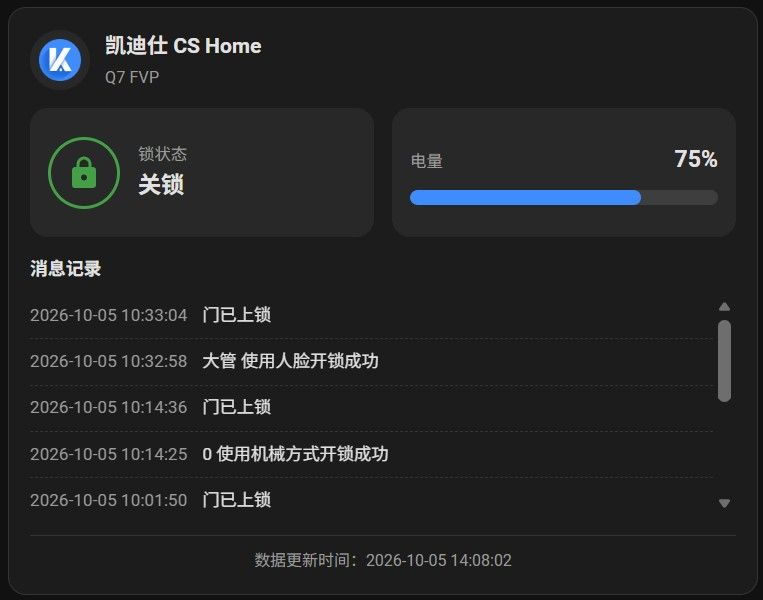
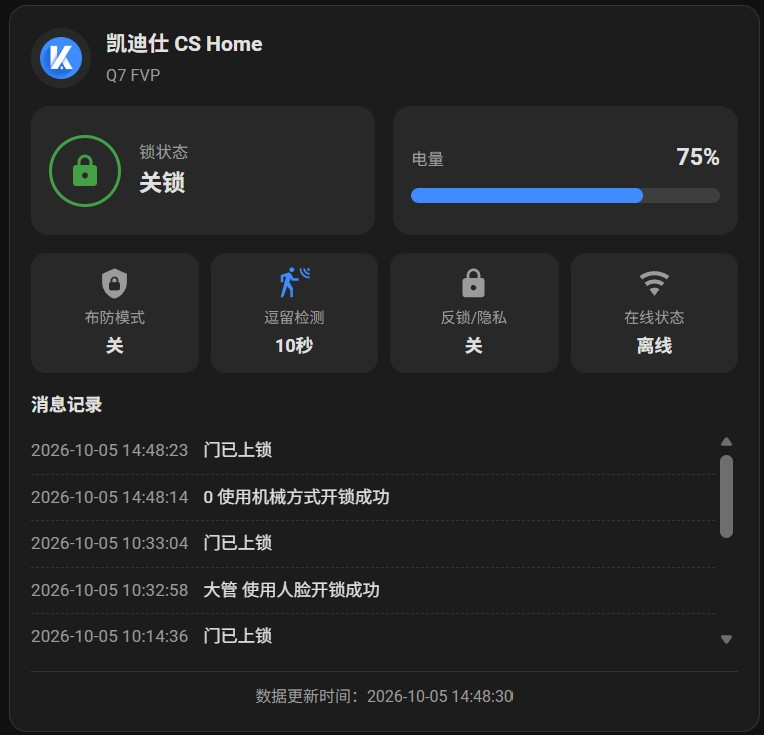
重写readme

diff --git a/README.md b/README.md
@@ -1,69 +1,65 @@
 # 凯迪仕智能门锁 (Kaadas) Home Assistant 集成
 
-基于凯迪仕微信小程序云端接口的 Home Assistant 集成（**当前为骨架版本**）。
+基于凯迪仕微信小程序云端接口的 Home Assistant 集成。
+
+![UI](ui.jpg)
 
 ## 功能
 
-- **锁**：门锁状态（开锁 / 关锁），远程开锁暂未实现（需签名）
-- **在线状态**：门锁 WiFi 在线 / 离线
-- **电量 / WiFi 信号 / 固件版本 / 物模型版本 / 数据更新时间**
-- 布防模式（binary_sensor）
+- **锁状态**：开锁 / 关锁（远程开锁暂未实现）
+
+- **状态传感器**：电量、WiFi 信号、固件版本、物模型版本、锁状态、开门方向、自动上锁时间、音量、语言等
+
+- **状态开关**：布防模式、反锁/隐私、双重验证、屏幕、在线状态
+
 - **云端 WebSocket 实时推送**：开关锁 / 上下线 / 门铃等事件即时刷新（替代定时轮询）
-- **token 自动续期**：用 openId + 手机号自动重登录换新 token（见下文）
-- **凭证失效自动重新认证（reauth）**：openId 失效时自动弹出重新认证表单
+
+- **消息记录**：最近操作（操作人 + 操作内容）、近 7 天开锁/门铃/报警统计
+
+- **token 自动续期**：openId + 手机号自动重登录换新 token
+
+- **凭证失效自动重新认证**：openId 失效时自动弹出重新认证表单
+
+- **自带 Lovelace 卡片**：`kaadas-lock-card`
 
 ## 安装
 
-1. 将 `custom_components/kaadas/` 复制到 Home Assistant 的 `config/custom_components/` 目录。
-2. 重启 Home Assistant。
-3. 在「设置 → 设备与服务 → 添加集成」中搜索「凯迪仕智能门锁」。
+### 方法一：HACS
+
+1. HACS → 集成 → 右上角「…」→「自定义存储库」
+
+2. 填入仓库地址 `https://github.com/shawjiniu/kaadas-ha`，类别选「集成」
+
+3. 找到「凯迪仕智能门锁」并安装，重启 Home Assistant
+
+### 方法二：手动安装
+
+1. 将 `custom_components/kaadas/` 复制到 Home Assistant 的 `config/custom_components/` 目录
+
+2. 重启 Home Assistant
+
+3. 在「设置 → 设备与服务 → 添加集成」搜索「凯迪仕智能门锁」
+
+## 配置
+
+首次配置需填写小程序凭证（微信开发者工具 / 抓包获取）：
+
+- `openid`：存储键 `openid`
+
+- `phone`：手机号（11 位）
+
+- `openIdToken`：存储键 `login_token`
+
+集成会自动登录换取 token/uid，并自动续期。
 
 ## 仪表盘卡片
 
-集成自带一个 Lovelace 卡片 `kaadas-lock-card`，安装后**自动注册**（无需手动添加资源）。布局：
-
-
-
-
-在仪表盘添加卡片时搜索「凯迪仕门锁卡片」，或直接写 YAML：
+安装后自动注册 `kaadas-lock-card` 卡片。在仪表盘添加卡片时搜索「凯迪仕门锁卡片」，或：
 
 ```yaml
 type: custom:kaadas-lock-card
-entity: lock.kaidas_xxx      # 必填：门锁实体
-# 以下均可选（默认按设备自动发现）
-name: 大门门锁
-model: Q7 FVP
-battery_entity: sensor.kaidas_xxx_battery
-wifi_entity: sensor.kaidas_xxx_wifi_rssi
-status_entity: sensor.kaidas_xxx_lock_status
-records_entity: sensor.kaidas_xxx_last_operation_time
-show_records: true
-records_limit: 10
+
+entity: lock.kaidas_xxx
 ```
 
-> 若未自动加载，可在「设置 → 仪表盘 → 资源」手动添加 URL `/kaadas/frontend/kaadas-lock-card.js`（JavaScript 模块）。
-
-## 抓取凭证
-
-集成只需填写 3 个值（不再需要手动抓取 token），凭证在微信本地存储中，可通过微信开发者工具 / 抓包获取：
-
-- `openid`：存储键 `openid`（必填）
-- `phone`：你的手机号，11 位（必填）
-- `openIdToken`：存储键 `login_token`（必填，作为 `openIdToken` 请求头）
-
-集成会自动调用 `/user/login` 登录并换取 token/uid，之后自动续期。
-
-
-## 实时推送与更新机制
-
-集成通过云端 WebSocket订阅门锁事件，收到开关锁、上下线、门铃等推送时即时刷新状态。断线自动指数退避重连，重连后立即同步一次；`401` 时自动续期 token 后重连。
-
-## 关于 token 自动续期
-
-实测确认：本集成实现的是真正的自动续期：
-
-- 固定 7 天 TTL，提前 2 小时进入续期窗口
-- 数据请求遇到鉴权失败时**立即续期并重试一次**
-
-> 注意：`openIdToken`（login_token）由微信 OAuth 签发，Home Assistant 无法自行刷新；一旦它失效，仍需用户重新抓取并触发 reauth。自动续期在此窗口内持续有效。
-
+> 本集成仅开发者个人使用，未经充分测试
